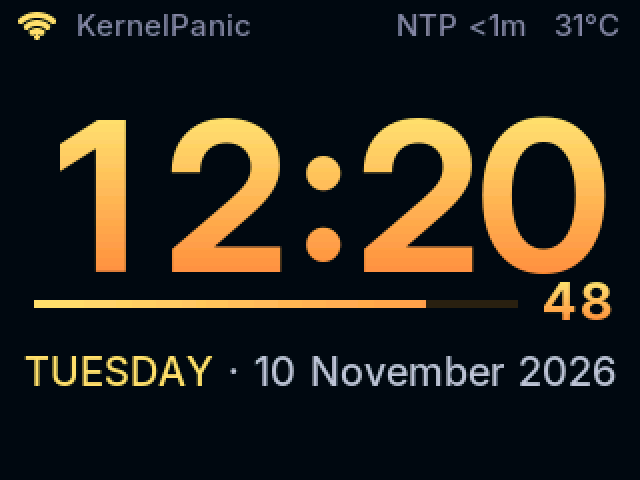
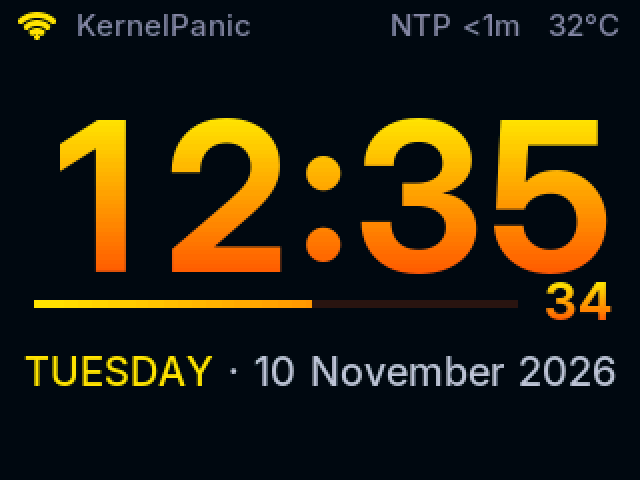
UI: saturated day-cycle palettes; TEST PALETTE preview
Pastel gradients looked pale on the IPS panel. Palettes are now fully
saturated (night blue->violet, sunrise gold->red-pink, day
yellow->orange, sunset orange->magenta, evening purple->blue), confirmed
vivid on the device. TEST PALETTE shows all five side by side.

diff --git a/src/ui_theme.cpp b/src/ui_theme.cpp
@@ -15,17 +15,31 @@ struct Stop {
   Rgb bottom;
 };
 
+// Saturated colours: pastels look washed out on the CYD's IPS panel.
+constexpr Rgb kNightTop = {40, 110, 255}, kNightBottom = {170, 50, 255};      // blue -> violet
+constexpr Rgb kSunriseTop = {255, 200, 0}, kSunriseBottom = {255, 40, 80};    // gold -> red-pink
+constexpr Rgb kDayTop = {255, 225, 0}, kDayBottom = {255, 90, 0};             // yellow -> orange
+constexpr Rgb kSunsetTop = {255, 120, 0}, kSunsetBottom = {235, 0, 130};      // orange -> magenta
+constexpr Rgb kEveningTop = {190, 40, 255}, kEveningBottom = {40, 70, 255};   // purple -> blue
+
 constexpr Stop kStops[] = {
-    {0, {130, 150, 255}, {200, 120, 255}},             // night
-    {5 * 60, {130, 150, 255}, {200, 120, 255}},
-    {6 * 60 + 30, {255, 210, 100}, {255, 110, 120}},   // sunrise
-    {9 * 60, {255, 222, 110}, {255, 140, 60}},         // day
-    {16 * 60, {255, 222, 110}, {255, 140, 60}},
-    {18 * 60 + 30, {255, 160, 90}, {245, 85, 160}},    // sunset
-    {20 * 60 + 30, {205, 130, 255}, {120, 120, 255}},  // evening
-    {22 * 60, {130, 150, 255}, {200, 120, 255}},
-    {24 * 60, {130, 150, 255}, {200, 120, 255}},
+    {0, kNightTop, kNightBottom},
+    {5 * 60, kNightTop, kNightBottom},
+    {6 * 60 + 30, kSunriseTop, kSunriseBottom},
+    {9 * 60, kDayTop, kDayBottom},
+    {16 * 60, kDayTop, kDayBottom},
+    {18 * 60 + 30, kSunsetTop, kSunsetBottom},
+    {20 * 60 + 30, kEveningTop, kEveningBottom},
+    {22 * 60, kNightTop, kNightBottom},
+    {24 * 60, kNightTop, kNightBottom},
 };
+
+constexpr const char* kNames[] = {"NIGHT", "DAWN", "DAY", "DUSK", "EVE"};
+constexpr Rgb kNamed[][2] = {{kNightTop, kNightBottom},
+                             {kSunriseTop, kSunriseBottom},
+                             {kDayTop, kDayBottom},
+                             {kSunsetTop, kSunsetBottom},
+                             {kEveningTop, kEveningBottom}};
 
 uint16_t blend(const Rgb& a, const Rgb& b, int num, int den) {
   auto l = [&](uint8_t x, uint8_t y) { return uint8_t(x + (int(y) - int(x)) * num / den); };
@@ -47,6 +61,13 @@ Palette paletteForMinute(int minuteOfDay) {
     }
   }
   return {blend(kStops[0].top, kStops[0].top, 0, 1), blend(kStops[0].bottom, kStops[0].bottom, 0, 1)};
+}
+
+int namedPaletteCount() { return sizeof(kNamed) / sizeof(kNamed[0]); }
+
+Palette namedPalette(int index, const char** name) {
+  if (name) *name = kNames[index];
+  return {blend(kNamed[index][0], kNamed[index][0], 0, 1), blend(kNamed[index][1], kNamed[index][1], 0, 1)};
 }
 
 uint16_t mix(uint16_t a, uint16_t b, uint8_t t) {

diff --git a/src/display_manager.cpp b/src/display_manager.cpp
@@ -476,6 +476,36 @@ void DisplayManager::showTestPattern(uint32_t durationMs) {
   });
 }
 
+void DisplayManager::showPaletteTest(uint32_t durationMs) {
+  if (!spritesOk_) return;
+  enterMode(Mode::Test);
+  testUntilMs_ = millis() + durationMs;
+  const int n = theme::namedPaletteCount();
+  const int16_t colW = kScreenW / n;
+  for (int i = 0; i < n; ++i) {
+    const theme::Palette p = theme::namedPalette(i, nullptr);
+    const int16_t x = i * colW;
+    // Big digit sample, cropped to the column.
+    digitSprite.fillSprite(TFT_BLACK);
+    drawGlyphString(digitSprite, "8", 0, colW, kDigitBaseline);
+    tintSprite(digitSprite, kDigitW, kDigitH, p, kGlyphTop, kDigitBaseline);
+    digitSprite.pushSprite(x, 30, 0, 0, colW, kDigitH);
+    // Vertical gradient swatch.
+    for (int16_t y = 0; y < 70; ++y) {
+      tft.drawFastHLine(x + 8, 128 + y, colW - 16, theme::mix(p.top, p.bottom, y * 255 / 69));
+    }
+  }
+  drawLine(206, 24, font_small, [&](TFT_eSprite& s) {
+    s.setTextDatum(MC_DATUM);
+    for (int i = 0; i < n; ++i) {
+      const char* name = nullptr;
+      const theme::Palette p = theme::namedPalette(i, &name);
+      s.setTextColor(p.top, theme::kBackground);
+      s.drawString(name, i * colW + colW / 2, 12);
+    }
+  });
+}
+
 void DisplayManager::screenshot(Print& out) {
   // Finish running animations so the capture shows a settled frame.
   lastFrameMs_ = 0;

diff --git a/src/serial_console.cpp b/src/serial_console.cpp
@@ -112,6 +112,8 @@ bool handleLine(RtcManager& rtc, DisplayManager& display, char* text) {
     printRtcTime(rtc);
   } else if (strcasecmp(text, "INFO") == 0) {
     printInfo(rtc);
+  } else if (strcasecmp(text, "TEST PALETTE") == 0) {
+    display.showPaletteTest(30000);
   } else if (strcasecmp(text, "TEST") == 0) {
     display.showTestPattern(20000);
   } else if (strcasecmp(text, "SHOT") == 0) {
@@ -139,7 +141,7 @@ bool handleLine(RtcManager& rtc, DisplayManager& display, char* text) {
 void serialConsolePrintHelp() {
   Serial.println(
       "[CONSOLE] Commands: SET YYYY-MM-DD HH:MM:SS (local) | GET | TZ [posix] | INFO | "
-      "WIFI [PORTAL|FORGET] | NTP [SYNC|SERVER host] | SHOT | TEST | HELP");
+      "WIFI [PORTAL|FORGET] | NTP [SYNC|SERVER host] | SHOT | TEST [PALETTE] | HELP");
 }
 
 bool serialConsolePoll(RtcManager& rtc, DisplayManager& display) {

diff --git a/src/ui_theme.h b/src/ui_theme.h
@@ -27,9 +27,13 @@ struct Palette {
 };
 
 // Palette for a minute of the local day (0-1439), blended between stops:
-// night periwinkle->purple, sunrise gold->coral, day yellow->orange,
-// sunset orange->magenta, evening violet->indigo.
+// night blue->violet, sunrise gold->red-pink, day yellow->orange,
+// sunset orange->magenta, evening purple->blue.
 Palette paletteForMinute(int minuteOfDay);
+
+// The five key palettes (night, sunrise, day, sunset, evening), for previews.
+int namedPaletteCount();
+Palette namedPalette(int index, const char** name);
 
 // Linear blend between two colours; t in 0..255.
 uint16_t mix(uint16_t a, uint16_t b, uint8_t t);

diff --git a/src/display_manager.h b/src/display_manager.h
@@ -46,6 +46,9 @@ class DisplayManager {
   // Colour test pattern (labelled bars) shown for `durationMs`; the clock resumes afterwards.
   void showTestPattern(uint32_t durationMs);
 
+  // All day-cycle palettes side by side for `durationMs`.
+  void showPaletteTest(uint32_t durationMs);
+
   // Streams the screen as big-endian RGB565 between "[SHOT] BEGIN w h" and
   // "[SHOT] END" lines. Blocks for ~14 s at 115200 baud (development only).
   void screenshot(Print& out);

diff --git a/src/serial_console.h b/src/serial_console.h
@@ -12,6 +12,7 @@
 //   NTP SYNC                  sync with the NTP server now
 //   NTP SERVER <host>         set and save the NTP server, then sync
 //   TEST                      colour test pattern for 20 s (panel variant check)
+//   TEST PALETTE              the five day-cycle palettes side by side for 30 s
 //   SHOT                      dump the screen (tools/screenshot.py turns it into a PNG)
 //   HELP                      list commands
 #pragma once

diff --git a/README.md b/README.md
@@ -9,11 +9,11 @@ local time using a configurable POSIX timezone stored in NVS. Wi-Fi with a setup
 gradient digits, rolling transitions and colours that follow the time of day. See
 [docs/ROADMAP.md](docs/ROADMAP.md) for upcoming milestones.
 
-| Night | Day |
-|-------|-----|
-| ![Night](docs/images/clock.png) | ![Day](docs/images/clock-day.png) |
-| **Sunset** | **Setup mode** |
-| ![Sunset](docs/images/clock-sunset.png) | ![Setup mode](docs/images/setup-mode.png) |
+| Night | Sunrise | Day |
+|-------|---------|-----|
+| ![Night](docs/images/clock.png) | ![Sunrise](docs/images/clock-sunrise.png) | ![Day](docs/images/clock-day.png) |
+| **Sunset** | **Palettes (`TEST PALETTE`)** | **Setup mode** |
+| ![Sunset](docs/images/clock-sunset.png) | ![Palettes](docs/images/palettes.png) | ![Setup mode](docs/images/setup-mode.png) |
 
 ## Display
 
@@ -26,8 +26,9 @@ gradient digits, rolling transitions and colours that follow the time of day. Se
 - **Date:** the weekday in the accent colour, then the date.
 - **Notice line:** RTC lost-power warning (red) or Wi-Fi setup instructions (cyan).
 - **Colours by time of day** (on a deep navy background), blended minute by minute:
-  night periwinkle→purple, sunrise (~06:30) gold→coral, day (09:00–16:00) yellow→orange,
-  sunset (~18:30) orange→magenta, evening (~20:30) violet→indigo.
+  night blue→violet, sunrise (~06:30) gold→red-pink, day (09:00–16:00) yellow→orange,
+  sunset (~18:30) orange→magenta, evening (~20:30) purple→blue. The colours are fully
+  saturated, because pastels look washed out on the IPS panel.
 - Glyphs are rendered white-on-black into sprites, then tinted per pixel, so the gradients
   keep their anti-aliasing. Nothing flickers. An animation frame takes a few ms.
 - The CYD's RGB LED is switched off at boot.
@@ -166,6 +167,7 @@ NTP SYNC                    # sync now (busy pool servers may answer only after 
 NTP SERVER time.google.com  # set and save the NTP server (default pool.ntp.org), then sync
 SHOT                        # stream the screen (use tools/screenshot.py)
 TEST                        # labelled colour bars for 20 s (panel variant check)
+TEST PALETTE                # the five day-cycle palettes side by side for 30 s
 HELP
 ```
 
